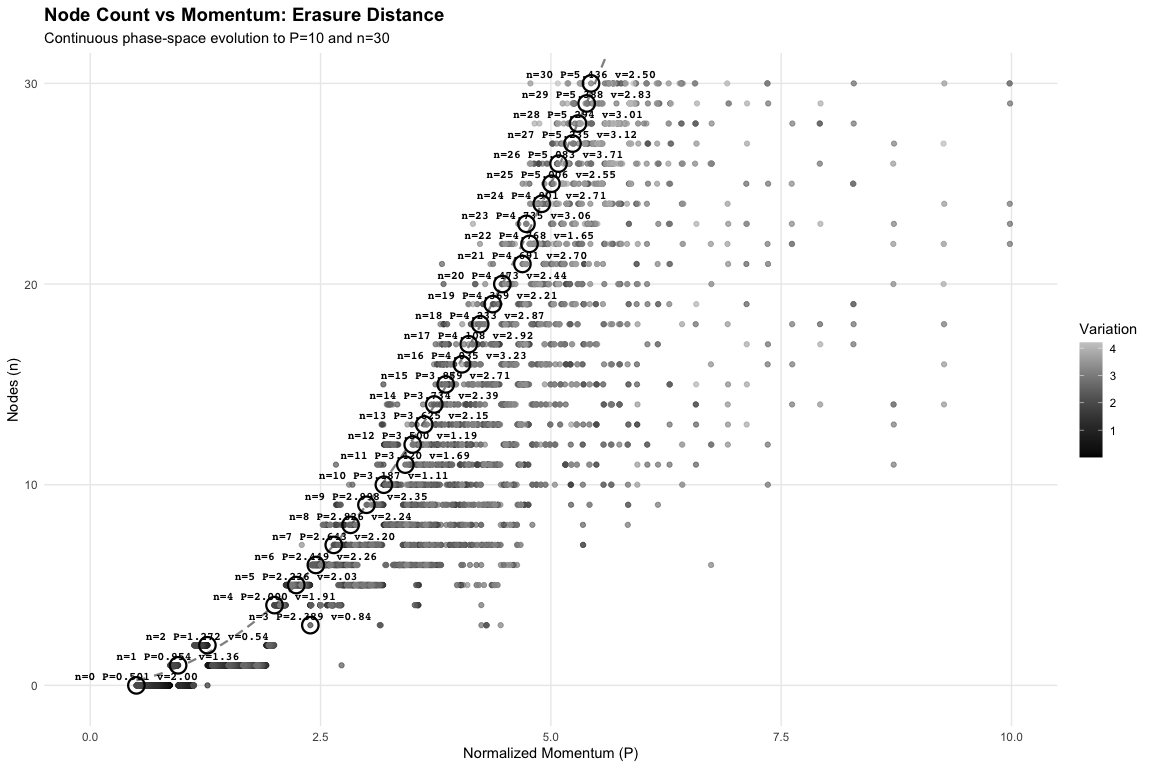
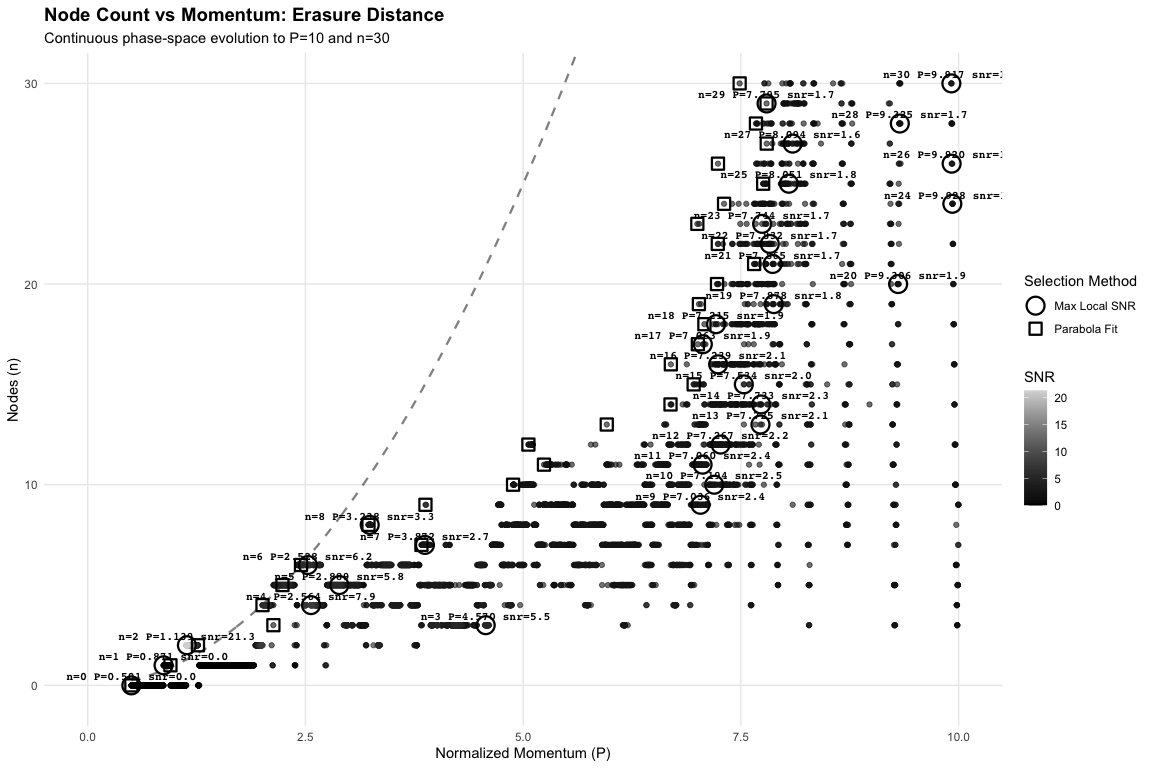
problems with these output data

diff --git a/src/node_counter.cpp b/src/node_counter.cpp
@@ -25,6 +25,7 @@ DataFrame count_nodes_cpp(DataFrame sub_df, NumericVector thresh_vec) {
 
   std::vector<double> node_x;
   std::vector<double> node_y;
+  std::vector<double> node_snr;
 
   // --- STATE INITIALIZATION ---
   // State 0 = Seeking Valley / In Valley
@@ -73,6 +74,9 @@ DataFrame count_nodes_cpp(DataFrame sub_df, NumericVector thresh_vec) {
           node_x.push_back(local_min_x);
           node_y.push_back(local_min);
 
+          double well_depth = local_max - local_min;
+          node_snr.push_back(well_depth / local_thresh);
+
           // Switch back to seeking peak
           state = 1;
           local_max = val;
@@ -83,6 +87,7 @@ DataFrame count_nodes_cpp(DataFrame sub_df, NumericVector thresh_vec) {
 
   return DataFrame::create(
     _["x"] = wrap(node_x),
-    _["y"] = wrap(node_y)
+    _["y"] = wrap(node_y),
+    _["snr"] = wrap(node_snr)
   );
 }

diff --git a/README.md b/README.md
@@ -1,7 +1,9 @@
 Harmonic Oscillator Erasure Density
 ================
 
-![](README_files/figure-gfm/plot-1A-combined-grid-erasure-distance-1.png)<!-- -->
+![](README_files/figure-gfm/plot-1A-grid-parabola-1.png)<!-- -->
+
+![](README_files/figure-gfm/plot-1B-grid-textbook-1.png)<!-- -->
 
 ------------------------------------------------------------------------
 
